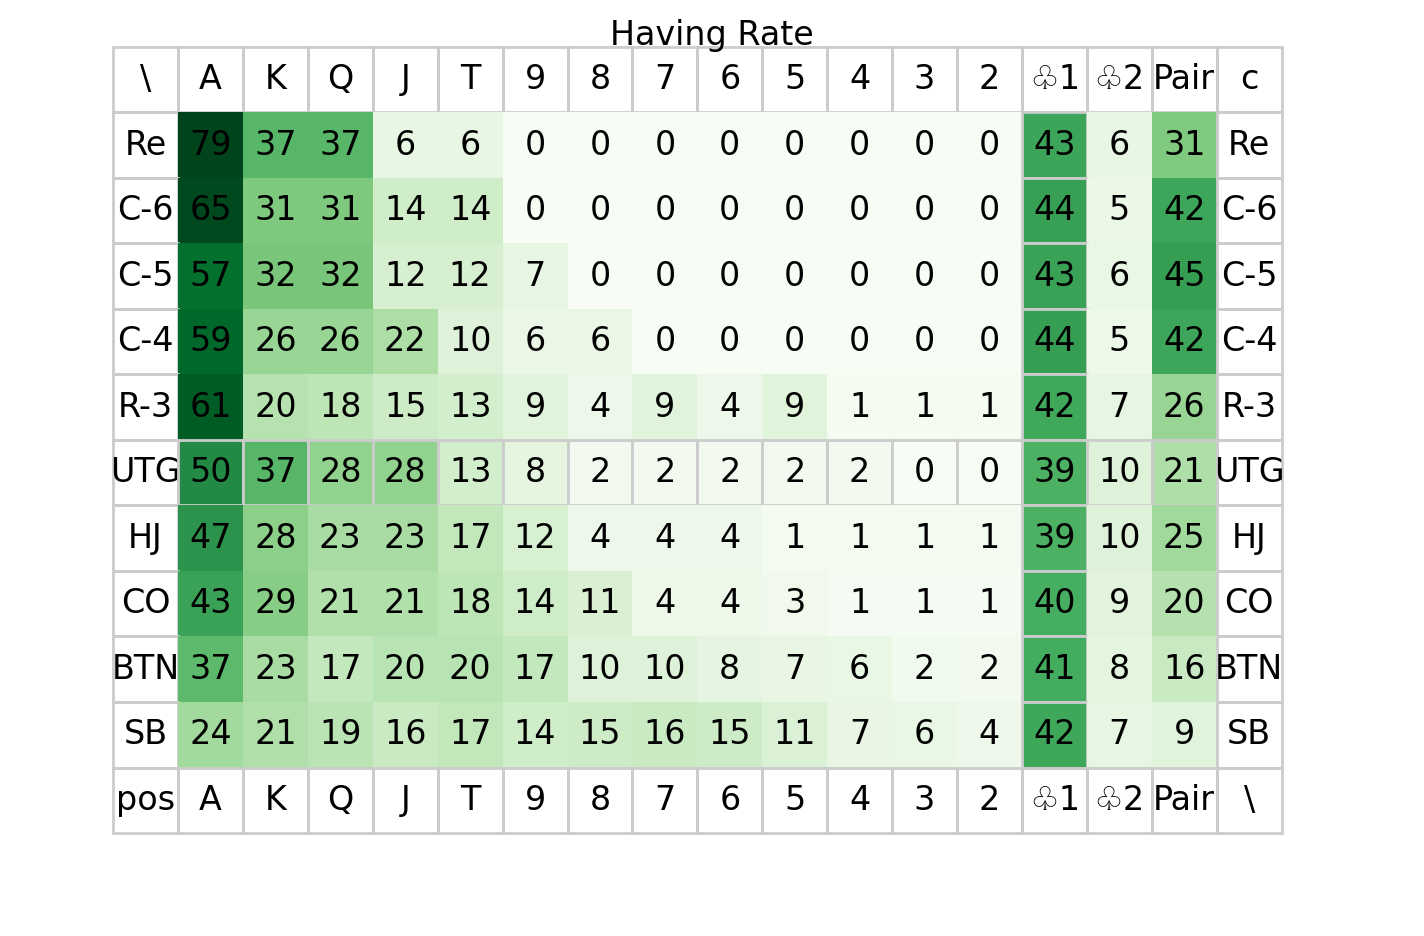
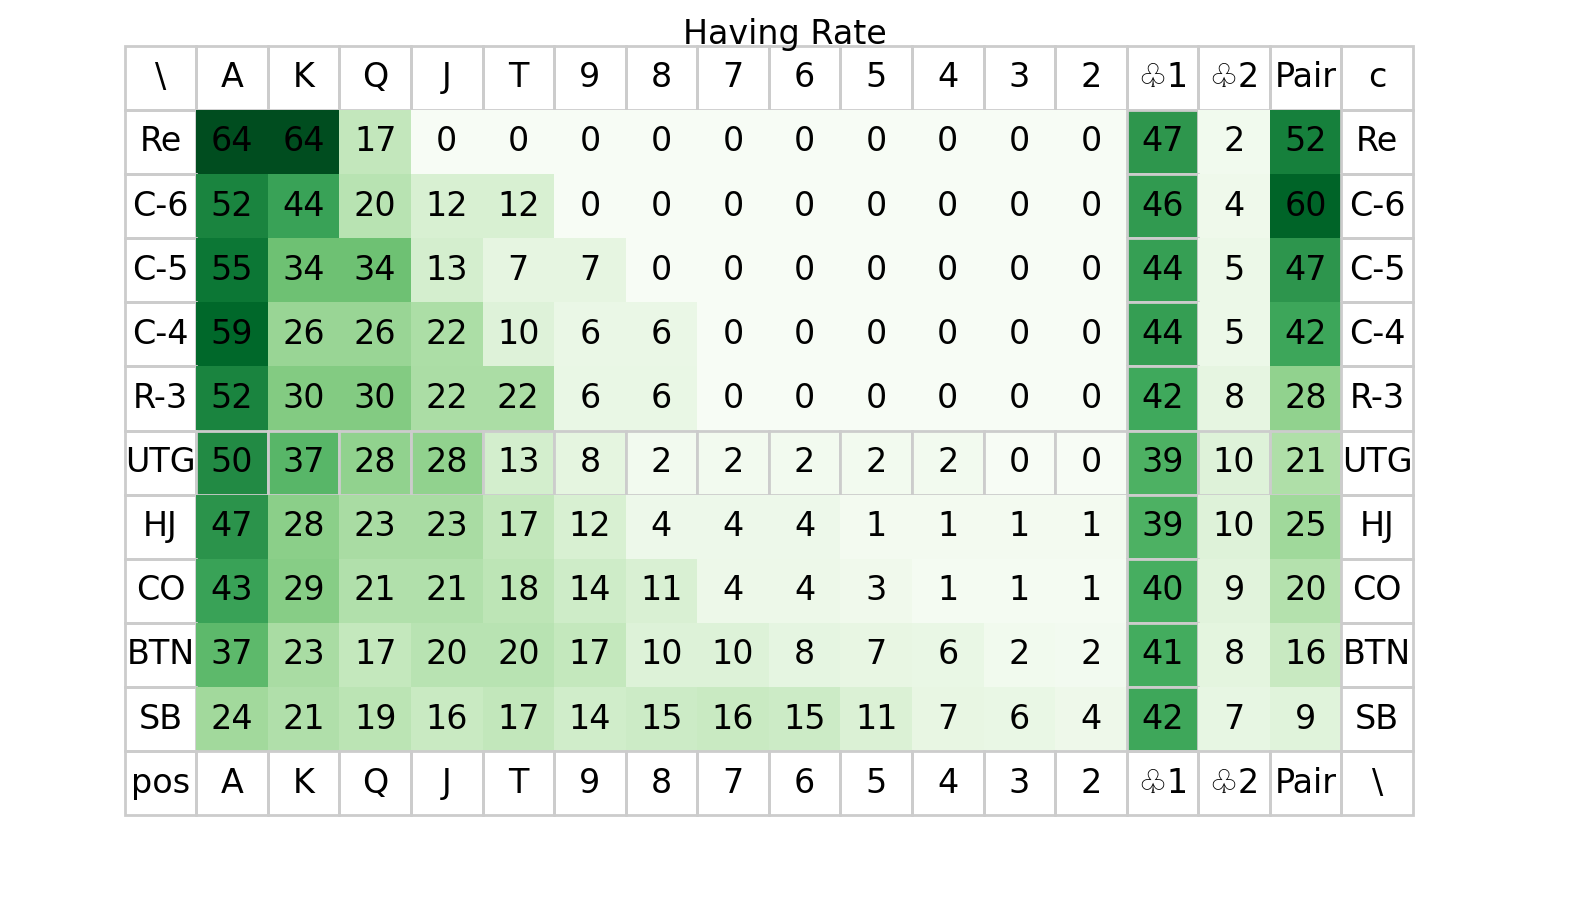
30BB 1Pod

diff --git a/poker.py b/poker.py
@@ -53,16 +53,16 @@ card_data = {
 card_data = {
     # raise or fold: BB[0-1], SB[1-2], BTN[2-3], CO[3-4], HJ[4-5], UTG[5-6]
     "AA" : [6, 7], "KK" : [6, 7], "QQ": [6, 7], "JJ": [6, 6],
-    "TT" : [6, 6], "99" : [5.6, 5], "88": [5, 4], "77": [5, 3],
-    "66" : [5, 3], "55" : [4, 3], "44": [3], "33": [3],
+    "TT" : [6, 6], "99" : [5.6, 5], "88": [5, 4], "77": [5],
+    "66" : [5], "55" : [4], "44": [3], "33": [3],
     "22" : [2.6],
-    "AKs": [6, 7], "AQs": [6, 7], "AJs": [6, 7], "ATs": [6, 7],
-    "A9s": [6, 3], "A8s": [6, 3], "A7s": [5.7, 3], "A6s": [5.7, 3],
-    "A5s": [5.8, 3], "A4s": [5.7, 3], "A3s": [5, 3], "A2s": [4.6, 3],
+    "AKs": [6, 7], "AQs": [6, 6], "AJs": [6, 5], "ATs": [6, 4],
+    "A9s": [6, 3], "A8s": [6, 3], "A7s": [5.7], "A6s": [5.7],
+    "A5s": [5.8], "A4s": [5.7], "A3s": [5], "A2s": [4.6],
     "KQs": [6, 5], "KJs": [6, 3], "KTs": [6, 3], "K9s": [5.9],
     "K8s": [4], "K7s": [3.6], "K6s": [3.9], "K5s": [3],
     "K4s": [3], "K3s": [3], "K2s": [2.5],
-    "QJs": [6, 3], "QTs": [6, 2.6], "Q9s": [4.6], "Q8s": [3.4],
+    "QJs": [6, 3], "QTs": [6, 3], "Q9s": [4.6], "Q8s": [3.4],
     "Q7s": [2.6], "Q6s": [2], "Q5s": [1.6], "Q4s": [2],
     "Q3s": [1], "Q2s": [2],
     "JTs": [6, 3], "J9s": [4.6], "J8s": [3.4], "J7s": [3],
@@ -77,9 +77,9 @@ card_data = {
     "54s": [3], "53s": [2],
     "43s": [2], "32s": [2],
     # raise or fold: BB[0-1], SB[1-2], BTN[2-3], CO[3-4], HJ[4-5], UTG[5-6]
-    "AKo": [6, 7], "AQo": [6, 7], "AJo": [6, 4], "ATo": [5.5, 3],
-    "A9o": [4, 3], "A8o": [3.9, 2.6], "A7o": [3, 3], "A6o": [3, 2.5],
-    "A5o": [3, 3], "A4o": [3], "A3o": [2], "A2o": [2],
+    "AKo": [6, 7], "AQo": [6, 5], "AJo": [6, 4], "ATo": [5.5, 3],
+    "A9o": [4], "A8o": [3.9], "A7o": [3], "A6o": [3],
+    "A5o": [3], "A4o": [3], "A3o": [2], "A2o": [2],
     "KQo": [6, 3], "KJo": [5.6], "KTo": [3.6], "K9o": [3],
     "K8o": [2], "K7o": [2], "K6o": [2], "K5o": [2],
     "K4o": [2], "K3o": [1], "K2o": [1.6],

diff --git a/readme.md b/readme.md
@@ -1,8 +1,6 @@
 # ハンドレンジ
 - BB: 相手と同じ立場ならコールで入る
-- SB:
-  - BTNのレイズ : **5以下のカードが無ければ**コールマークもリレイズで入る(BB避け)。
-  - 2以下を使用したいなら色付き以外もコールから入らなければならない
+- SB: BBを下ろすためにBTNにはリレイズで入る
 - 最緑：リレイズで入る. AA,KK,QQ,AK ならオールインまで乗る(?)
 - 薄い色：レイズにコールで入る。薄い色は相手のポジションが弱ければ。
 
